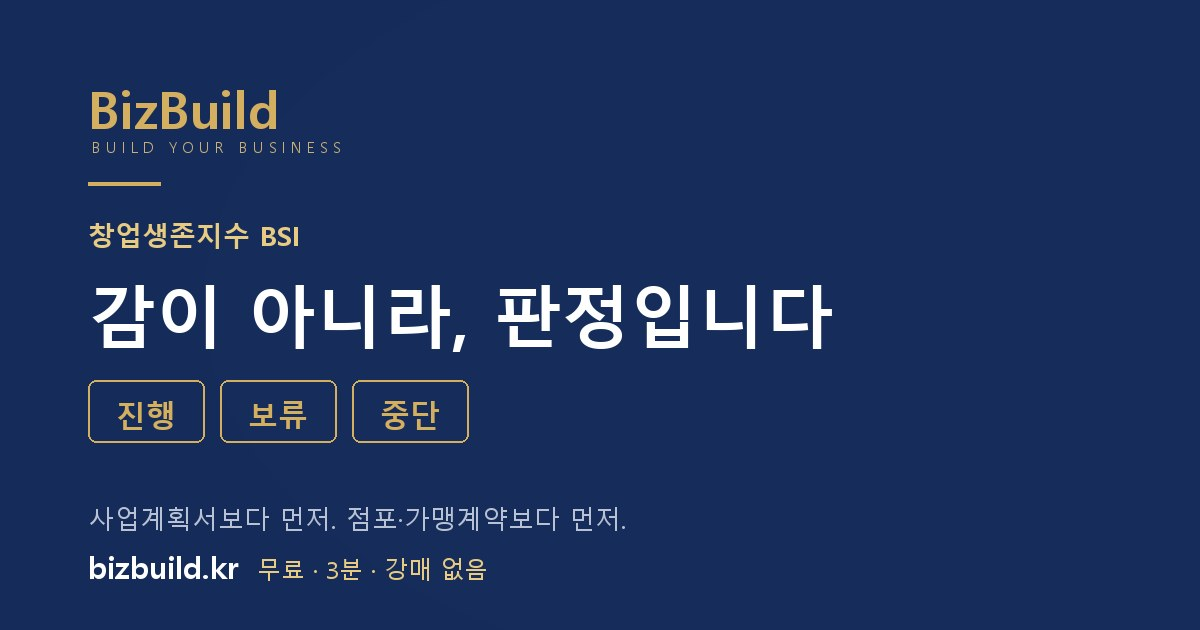
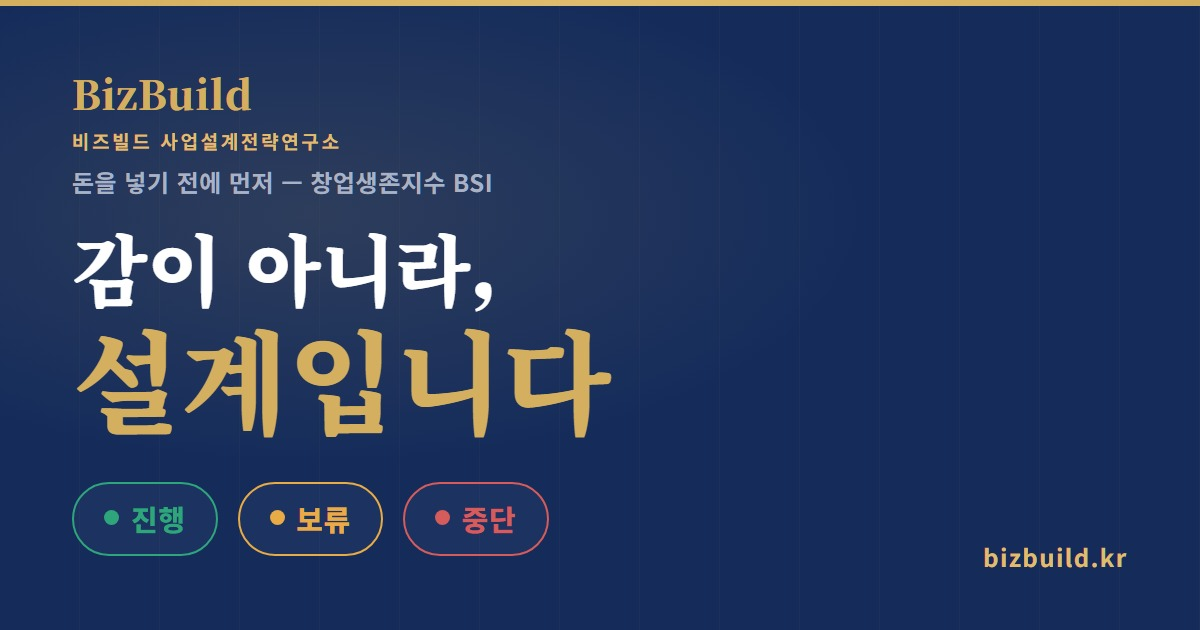
content: OG 공유 카드 문구 판정→설계 교체 및 og-cover 재생성(+생성기 tools/og)

diff --git a/tools/og/og-cover.html b/tools/og/og-cover.html
@@ -1,0 +1,82 @@
+<!doctype html>
+<html lang="ko">
+<head>
+<meta charset="utf-8">
+<link rel="preconnect" href="https://fonts.googleapis.com">
+<link rel="preconnect" href="https://fonts.gstatic.com" crossorigin>
+<link href="https://fonts.googleapis.com/css2?family=Noto+Serif+KR:wght@700;900&family=Noto+Sans+KR:wght@500;700;800&display=swap" rel="stylesheet">
+<style>
+  /* ── OG 공유 카드 원본 (1200×630) ──
+     brand.md 표준 준수: 네이비 #152C5B / 골드 #D4AF5F / 라벨골드 #E0BD6E
+     다크배경 판정 3색: 진행 #2FA57C / 보류 #E8AB45 / 중단 #D65C5C
+     제목 Noto Serif KR / 본문 Noto Sans KR
+     이 파일을 고쳐 tools/og/render.js 로 다시 렌더하면 images/og-cover.jpg 가 갱신된다. */
+  *{margin:0;padding:0;box-sizing:border-box;}
+  html,body{width:1200px;height:630px;overflow:hidden;}
+  .card{
+    position:relative;width:1200px;height:630px;
+    background:#152C5B;
+    display:flex;flex-direction:column;
+    padding:64px 72px;
+    font-family:'Noto Sans KR',sans-serif;
+    -webkit-font-smoothing:antialiased;
+  }
+  /* 골드 방사형 글로우(사이트 히어로와 동일 톤) */
+  .glow{position:absolute;inset:0;background:radial-gradient(ellipse 70% 60% at 26% 34%,rgba(212,175,95,0.13) 0%,transparent 66%);}
+  /* 세로 골드 그리드 라인(히어로 모티프) */
+  .grid{position:absolute;inset:0;background:repeating-linear-gradient(90deg,transparent,transparent 79px,rgba(212,175,95,0.03) 79px,rgba(212,175,95,0.03) 80px);}
+  /* 상단 골드 테두리 액센트 */
+  .card::before{content:"";position:absolute;top:0;left:0;right:0;height:6px;background:linear-gradient(90deg,#D4AF5F 0%,#E0BD6E 50%,#D4AF5F 100%);}
+
+  .brand{position:relative;z-index:2;display:flex;flex-direction:column;gap:6px;}
+  .brand-logo{font-family:'Noto Serif KR',serif;font-weight:900;font-size:40px;color:#D4AF5F;letter-spacing:0.5px;}
+  .brand-sub{font-size:19px;font-weight:700;color:#E0BD6E;letter-spacing:0.14em;}
+
+  .center{position:relative;z-index:2;flex-grow:1;display:flex;flex-direction:column;justify-content:center;}
+  .kicker{font-size:24px;font-weight:700;color:#A8B2C4;letter-spacing:0.02em;margin-bottom:22px;}
+  .headline{font-family:'Noto Serif KR',serif;font-weight:900;line-height:1.16;letter-spacing:-0.5px;}
+  .headline .l1{display:block;font-size:78px;color:#FFFFFF;}
+  .headline .l2{display:block;font-size:112px;color:#D4AF5F;}
+
+  .badges{position:relative;z-index:2;display:flex;gap:20px;align-items:center;margin-top:40px;}
+  .badge{
+    display:inline-flex;align-items:center;gap:12px;
+    padding:13px 30px 15px;border-radius:999px;
+    font-size:29px;font-weight:800;letter-spacing:0.02em;
+    border:2px solid;background:rgba(255,255,255,0.03);
+  }
+  .badge .dot{width:15px;height:15px;border-radius:50%;}
+  .b-go{color:#2FA57C;border-color:#2FA57C;}      .b-go  .dot{background:#2FA57C;}
+  .b-hold{color:#E8AB45;border-color:#E8AB45;}    .b-hold .dot{background:#E8AB45;}
+  .b-stop{color:#D65C5C;border-color:#D65C5C;}    .b-stop .dot{background:#D65C5C;}
+
+  .url{position:absolute;right:72px;bottom:56px;z-index:2;font-size:24px;font-weight:700;color:#E0BD6E;letter-spacing:0.06em;}
+</style>
+</head>
+<body>
+  <div class="card">
+    <div class="glow"></div>
+    <div class="grid"></div>
+
+    <div class="brand">
+      <div class="brand-logo">BizBuild</div>
+      <div class="brand-sub">비즈빌드 사업설계전략연구소</div>
+    </div>
+
+    <div class="center">
+      <div class="kicker">돈을 넣기 전에 먼저 — 창업생존지수 BSI</div>
+      <div class="headline">
+        <span class="l1">감이 아니라,</span>
+        <span class="l2">설계입니다</span>
+      </div>
+      <div class="badges">
+        <span class="badge b-go"><span class="dot"></span>진행</span>
+        <span class="badge b-hold"><span class="dot"></span>보류</span>
+        <span class="badge b-stop"><span class="dot"></span>중단</span>
+      </div>
+    </div>
+
+    <div class="url">bizbuild.kr</div>
+  </div>
+</body>
+</html>

diff --git a/tools/og/render.js b/tools/og/render.js
@@ -1,0 +1,60 @@
+/*
+ * OG 공유 카드 렌더러 — tools/og/og-cover.html 을 1200×630 JPG 로 굽는다.
+ *
+ *   node tools/og/render.js
+ *
+ * 결과: images/og-cover.jpg (기존 파일 덮어쓰기 → 참조 수정 불필요)
+ *
+ * ── 엔진 ──
+ *  저장소 표준 렌더 스택인 Playwright(chromium)를 재사용한다.
+ *  최초 1회 설치:  cd tools/visual && npm install && npx playwright install chromium
+ *  playwright 모듈은 tools/visual/node_modules 에서 해석한다(중복 설치 회피).
+ *
+ * ── 결정성 ──
+ *  document.fonts.ready 로 Noto Serif/Sans KR 로딩을 기다린 뒤 촬영한다.
+ *  구글 폰트를 네트워크로 받으므로 최초 실행은 온라인이어야 한다.
+ *
+ * ── 크기 ──
+ *  deviceScaleFactor:1 + clip 1200×630 → 정확히 1200×630px 산출(og:image 선언값과 일치).
+ *  더 선명한 2x 가 필요하면 DSF 를 2 로 올리되 선언 메타(width/height)와의 정합을 확인할 것.
+ */
+const path = require('path');
+const fs = require('fs');
+
+const PW = path.resolve(__dirname, '..', 'visual', 'node_modules', 'playwright');
+let chromium;
+try {
+  ({ chromium } = require(PW));
+} catch (e) {
+  console.error('[og] Playwright 를 찾을 수 없습니다. 먼저 엔진을 설치하세요:');
+  console.error('     cd tools/visual && npm install && npx playwright install chromium');
+  process.exit(1);
+}
+
+const HTML = path.resolve(__dirname, 'og-cover.html');
+const OUT = path.resolve(__dirname, '..', '..', 'images', 'og-cover.jpg');
+
+(async () => {
+  const browser = await chromium.launch();
+  const ctx = await browser.newContext({
+    viewport: { width: 1200, height: 630 },
+    deviceScaleFactor: 1,
+  });
+  const page = await ctx.newPage();
+  const fileUrl = 'file:///' + HTML.replace(/\\/g, '/');
+  await page.goto(fileUrl, { waitUntil: 'networkidle' });
+
+  await page.evaluate(async () => { await document.fonts.ready; });
+  await page.waitForTimeout(300);
+
+  fs.mkdirSync(path.dirname(OUT), { recursive: true });
+  await page.screenshot({
+    path: OUT,
+    type: 'jpeg',
+    quality: 92,
+    clip: { x: 0, y: 0, width: 1200, height: 630 },
+  });
+
+  await browser.close();
+  console.log('[og] 생성 완료 →', OUT);
+})().catch(err => { console.error(err); process.exit(1); });

diff --git a/index.html b/index.html
@@ -14,14 +14,14 @@
 <meta property="og:site_name" content="비즈빌드">
 <meta property="og:locale" content="ko_KR">
 <meta property="og:url" content="https://bizbuild.kr/">
-<meta property="og:title" content="비즈빌드 — 창업, 감이 아니라 판정입니다">
+<meta property="og:title" content="비즈빌드 — 창업, 감이 아니라 설계입니다">
 <meta property="og:description" content="돈을 넣기 전에 먼저. 창업생존지수 BSI로 진행·보류·중단을 판정합니다. 무료 · 3분 · 강매 없음.">
 <meta property="og:image" content="https://bizbuild.kr/images/og-cover.jpg">
 <meta property="og:image:width" content="1200">
 <meta property="og:image:height" content="630">
 <meta property="og:image:alt" content="비즈빌드 창업판정 — 진행·보류·중단">
 <meta name="twitter:card" content="summary_large_image">
-<meta name="twitter:title" content="비즈빌드 — 창업, 감이 아니라 판정입니다">
+<meta name="twitter:title" content="비즈빌드 — 창업, 감이 아니라 설계입니다">
 <meta name="twitter:description" content="돈을 넣기 전에 먼저. 창업생존지수 BSI로 진행·보류·중단을 판정합니다.">
 <meta name="twitter:image" content="https://bizbuild.kr/images/og-cover.jpg">
 

diff --git a/tools/og/README.md b/tools/og/README.md
@@ -1,0 +1,28 @@
+# OG 공유 카드 생성 (tools/og)
+
+`images/og-cover.jpg` (1200×630, 카카오·페북·트위터 링크 미리보기)를 코드로 재생성한다.
+
+## 구성
+- `og-cover.html` — 카드 원본(디자인·문구). **여기만 고치면 된다.**
+- `render.js` — Playwright(chromium)로 HTML을 1200×630 JPG로 굽는다.
+
+## 재생성 방법
+```bash
+# 최초 1회: 렌더 엔진 설치 (저장소 표준 스택인 tools/visual 의 Playwright 재사용)
+cd tools/visual && npm install && npx playwright install chromium
+
+# 저장소 루트에서 실행
+node tools/og/render.js
+# → images/og-cover.jpg 덮어쓰기
+```
+최초 실행은 구글 폰트(Noto Serif/Sans KR)를 네트워크로 받으므로 온라인이어야 한다.
+
+## 브랜드 표준 (CLAUDE.md 준수)
+- 배경 네이비 `#152C5B`, 골드 로고 `#D4AF5F`, 라벨골드 `#E0BD6E`
+- 판정 3색(다크배경): 진행 `#2FA57C` / 보류 `#E8AB45` / 중단 `#D65C5C`
+- 제목 Noto Serif KR / 본문 Noto Sans KR
+- 진행·보류·중단 배지는 판정을 시각으로 전달하는 요소이므로 **존치**
+
+## 주의
+- 파일명·경로(`images/og-cover.jpg`)를 바꾸면 전 페이지의 `og:image`/`twitter:image` 참조를 함께 고쳐야 한다. 그대로 덮어쓰는 것이 원칙.
+- 크기 1200×630은 og:image 선언값(`og:image:width`/`height`)과 일치해야 한다.
